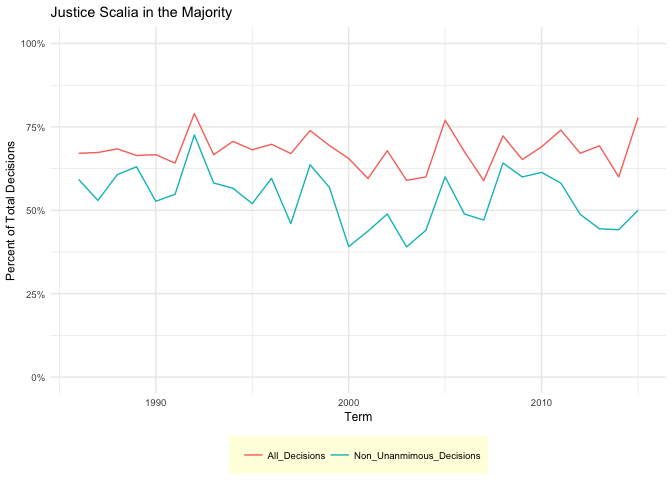
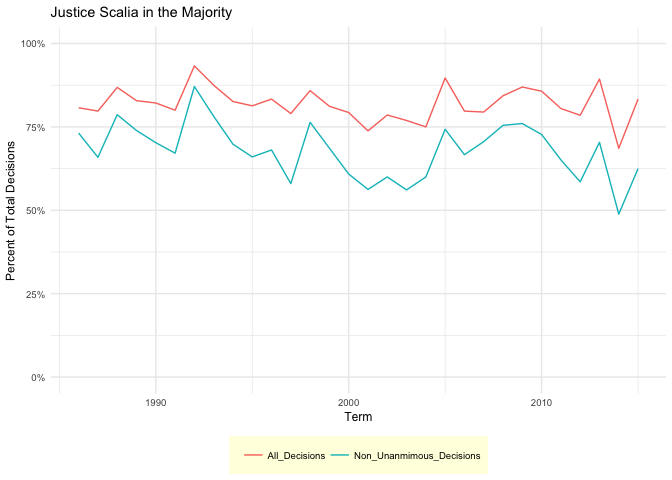
Corrected the majoirty code

diff --git a/scotus.md b/scotus.md
@@ -10,14 +10,14 @@ Get the data
 library(tidyverse)
 ```
 
-    ## ── Attaching packages ─── tidyverse 1.2.1 ──
+    ## ── Attaching packages ────────────────────────── tidyverse 1.2.1 ──
 
     ## ✔ ggplot2 2.2.1     ✔ purrr   0.2.4
     ## ✔ tibble  1.4.2     ✔ dplyr   0.7.4
     ## ✔ tidyr   0.8.0     ✔ stringr 1.3.0
     ## ✔ readr   1.1.1     ✔ forcats 0.3.0
 
-    ## ── Conflicts ────── tidyverse_conflicts() ──
+    ## ── Conflicts ───────────────────────────── tidyverse_conflicts() ──
     ## ✖ dplyr::filter() masks stats::filter()
     ## ✖ dplyr::lag()    masks stats::lag()
 
@@ -234,6 +234,7 @@ What percentage of cases in each term are decided by a one-vote margin (i.e. 5-4
 ``` r
 #Identify the total number of cases by term. Use mutate to create a new variable for the percent of one vote margin decisions.
 scdbv %>%
+  distinct(caseIssuesId, .keep_all = TRUE) %>%
   group_by(term) %>%
   summarize(cases = n(), onevote = sum((margin == 1), na.rm = TRUE)) %>%
   mutate(percentone = (onevote/cases)) %>%
@@ -253,12 +254,12 @@ In each term he served on the Court, in what percentage of cases was Justice Ant
 ------------------------------------------------------------------------------------------------------------
 
 ``` r
-# Find the ID for Justice Scalia on the directory http://scdb.wustl.edu/documentation.php?var=justice. Then, create a new variable for the percent of Justice Scalia voting in the majority (vote ==1).
+# Find the ID for Justice Scalia on the directory http://scdb.wustl.edu/documentation.php?var=justice. Then, create a new variable for the percent of Justice Scalia voting in the majority (majority == 2).
 scdbv %>%
   filter(justice == "105") %>%
   group_by(term) %>%
-  summarize(scalia_all = n(), majority = sum((vote == 1 & 3 & 5), na.rm = TRUE)) %>%
-  mutate(scalia_percent = (majority/scalia_all)) %>%
+  summarize(scalia_all = n(), majorityy = sum((majority == 2), na.rm = TRUE)) %>%
+  mutate(scalia_percent = (majorityy/scalia_all)) %>%
   
 #Use the line graph to show the percentage of Justice Scalia's majority decisions throughout his term  
   ggplot(aes(term,scalia_percent)) +
@@ -280,8 +281,8 @@ Create a graph similar to above that compares the percentage for all cases versu
 scdbv %>%
   filter(justice == "105") %>%
   group_by(term) %>%
-  summarize(scalia_all = n(), scalia_non = sum((minVotes!=0), na.rm = TRUE), majority = sum((vote == 1 & 3 & 5), na.rm = TRUE), majority_non = sum((vote == 1 & 3 & 5 & minVotes!=0), na.rm = TRUE)) %>%
-  mutate(All_Decisions = (majority/scalia_all), Non_Unanmimous_Decisions = (majority_non/scalia_non)) %>%
+  summarize(scalia_all = n(), scalia_non = sum((minVotes!=0), na.rm = TRUE), majorityy = sum((majority == 2), na.rm = TRUE), majorityy_non = sum((majority == 2 & minVotes!=0), na.rm = TRUE)) %>%
+  mutate(All_Decisions = (majorityy/scalia_all), Non_Unanmimous_Decisions = (majorityy_non/scalia_non)) %>%
   select(term, All_Decisions, Non_Unanmimous_Decisions) %>%
   gather(type, proportion, -term) %>%
   
@@ -304,6 +305,7 @@ In each term, what percentage of cases were decided in the conservative directio
 ``` r
 #Identify the total number of cases by year terms. Then, create a new variable for the percentage of conservative decisions (decisionDirection == 1). 
 scdbv %>%
+  distinct(caseIssuesId, .keep_all = TRUE) %>%
   group_by(term) %>%
   summarize(cases = n(), conservative = sum(decisionDirection == 1, na.rm = TRUE)) %>%
   mutate(percentcon = (conservative/cases)) %>%
@@ -327,6 +329,7 @@ The Chief Justice is frequently seen as capable of influencing the ideological d
 ``` r
 #Similar to Q4, but this time include the variable chief in group_by.
 scdbv %>%
+  distinct(caseIssuesId, .keep_all = TRUE) %>%
   group_by(term, chief) %>%
   summarize(cases = n(), conservative = sum(decisionDirection == 1, na.rm = TRUE)) %>%
   mutate(percentcon = (conservative/cases)) %>%
@@ -362,7 +365,7 @@ devtools::session_info()
     ##  language (EN)                        
     ##  collate  en_US.UTF-8                 
     ##  tz       America/Chicago             
-    ##  date     2018-04-14
+    ##  date     2018-04-15
 
     ## Packages -----------------------------------------------------------------
 
